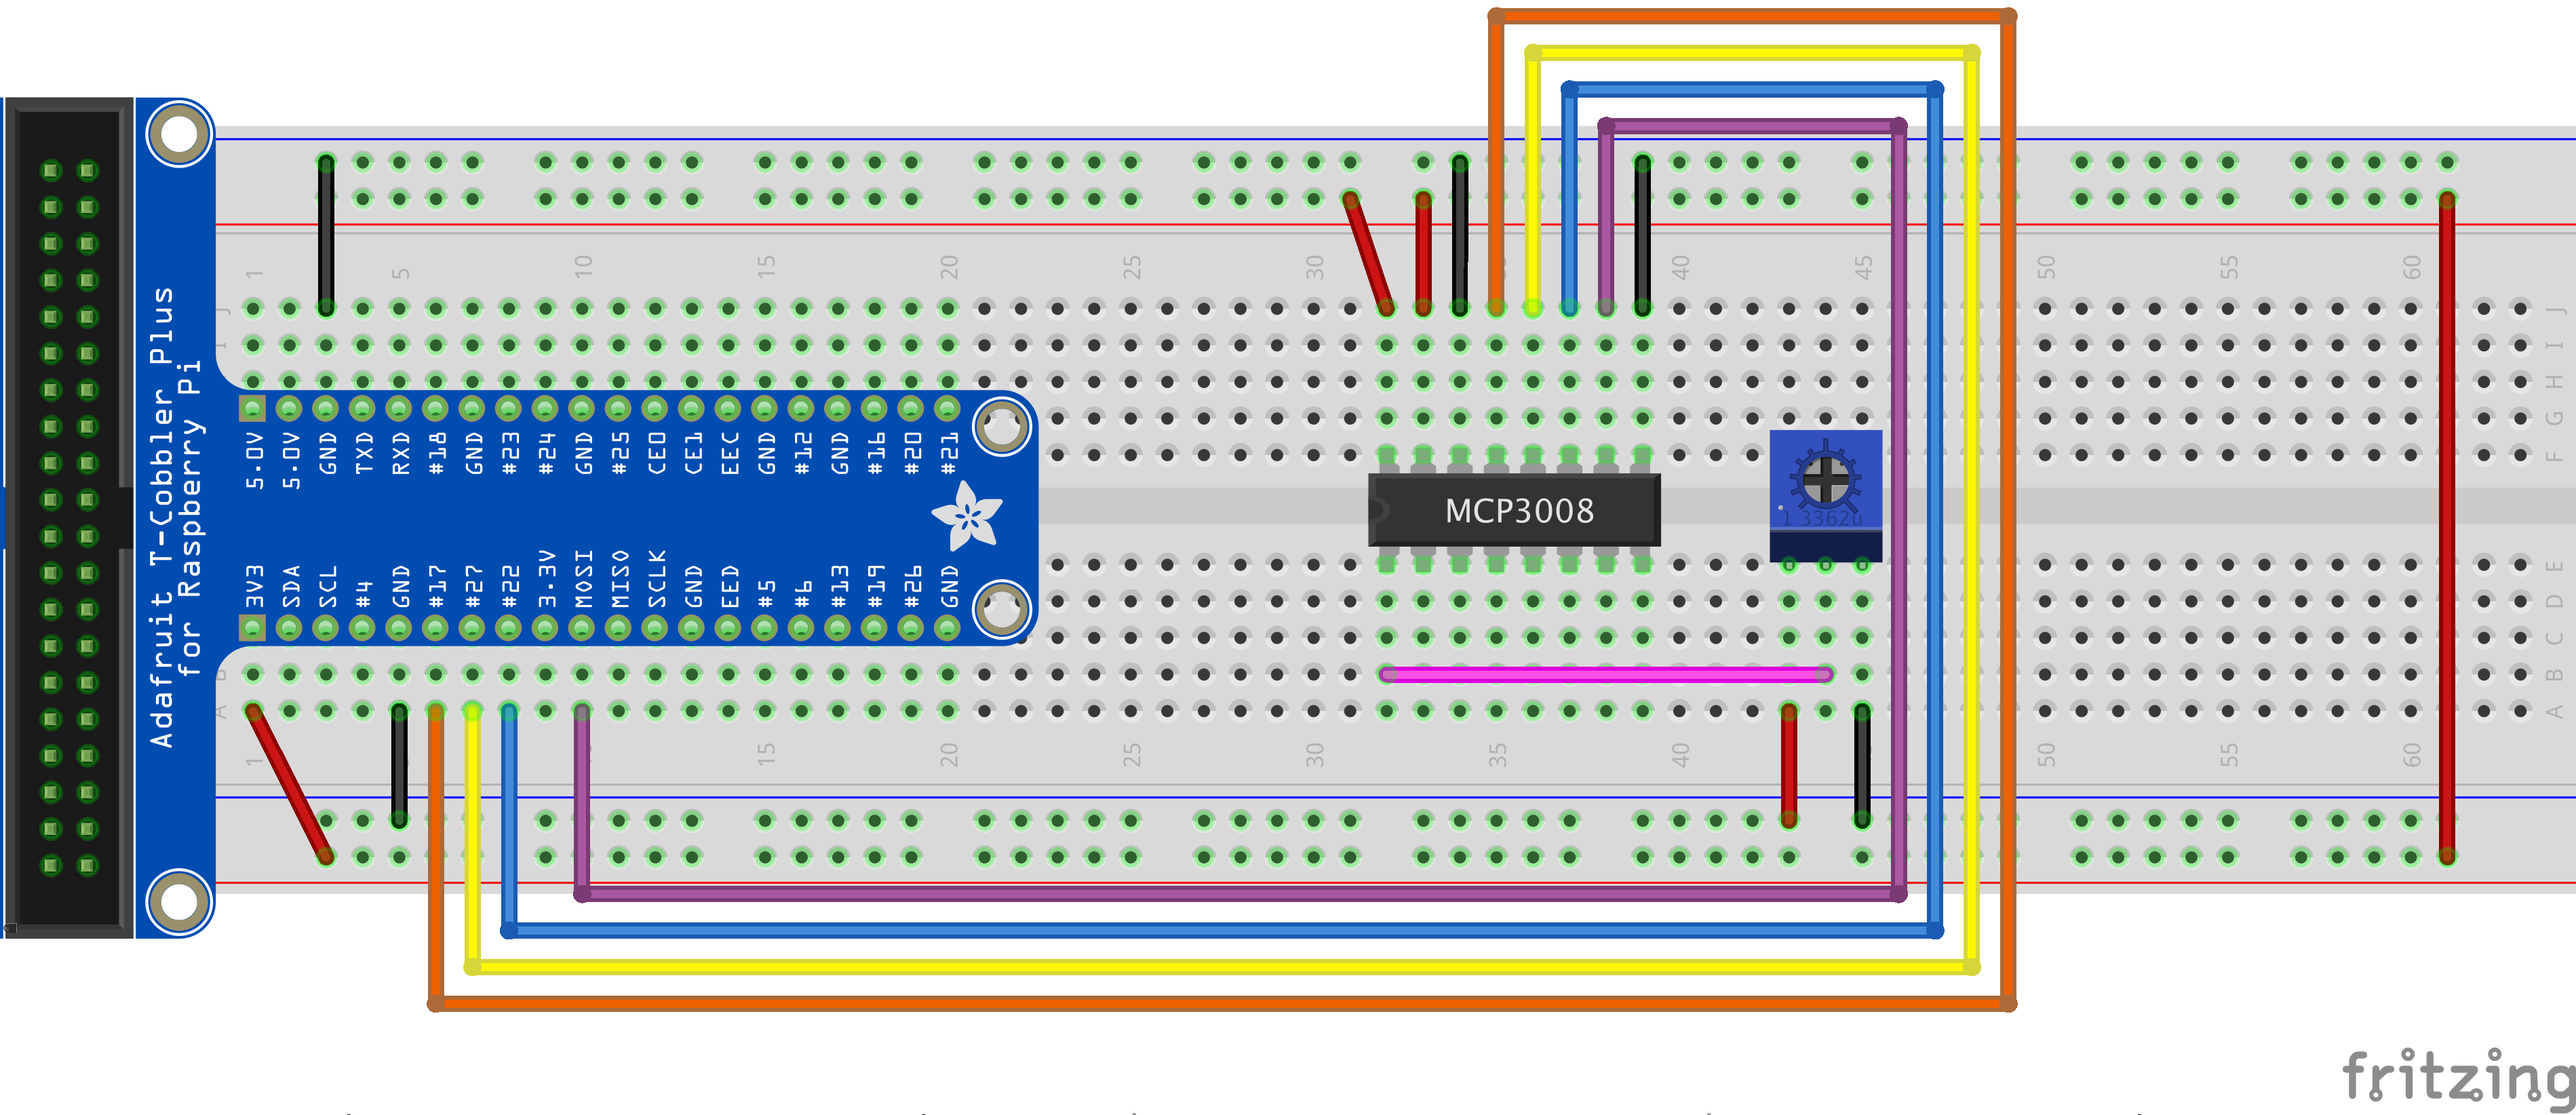
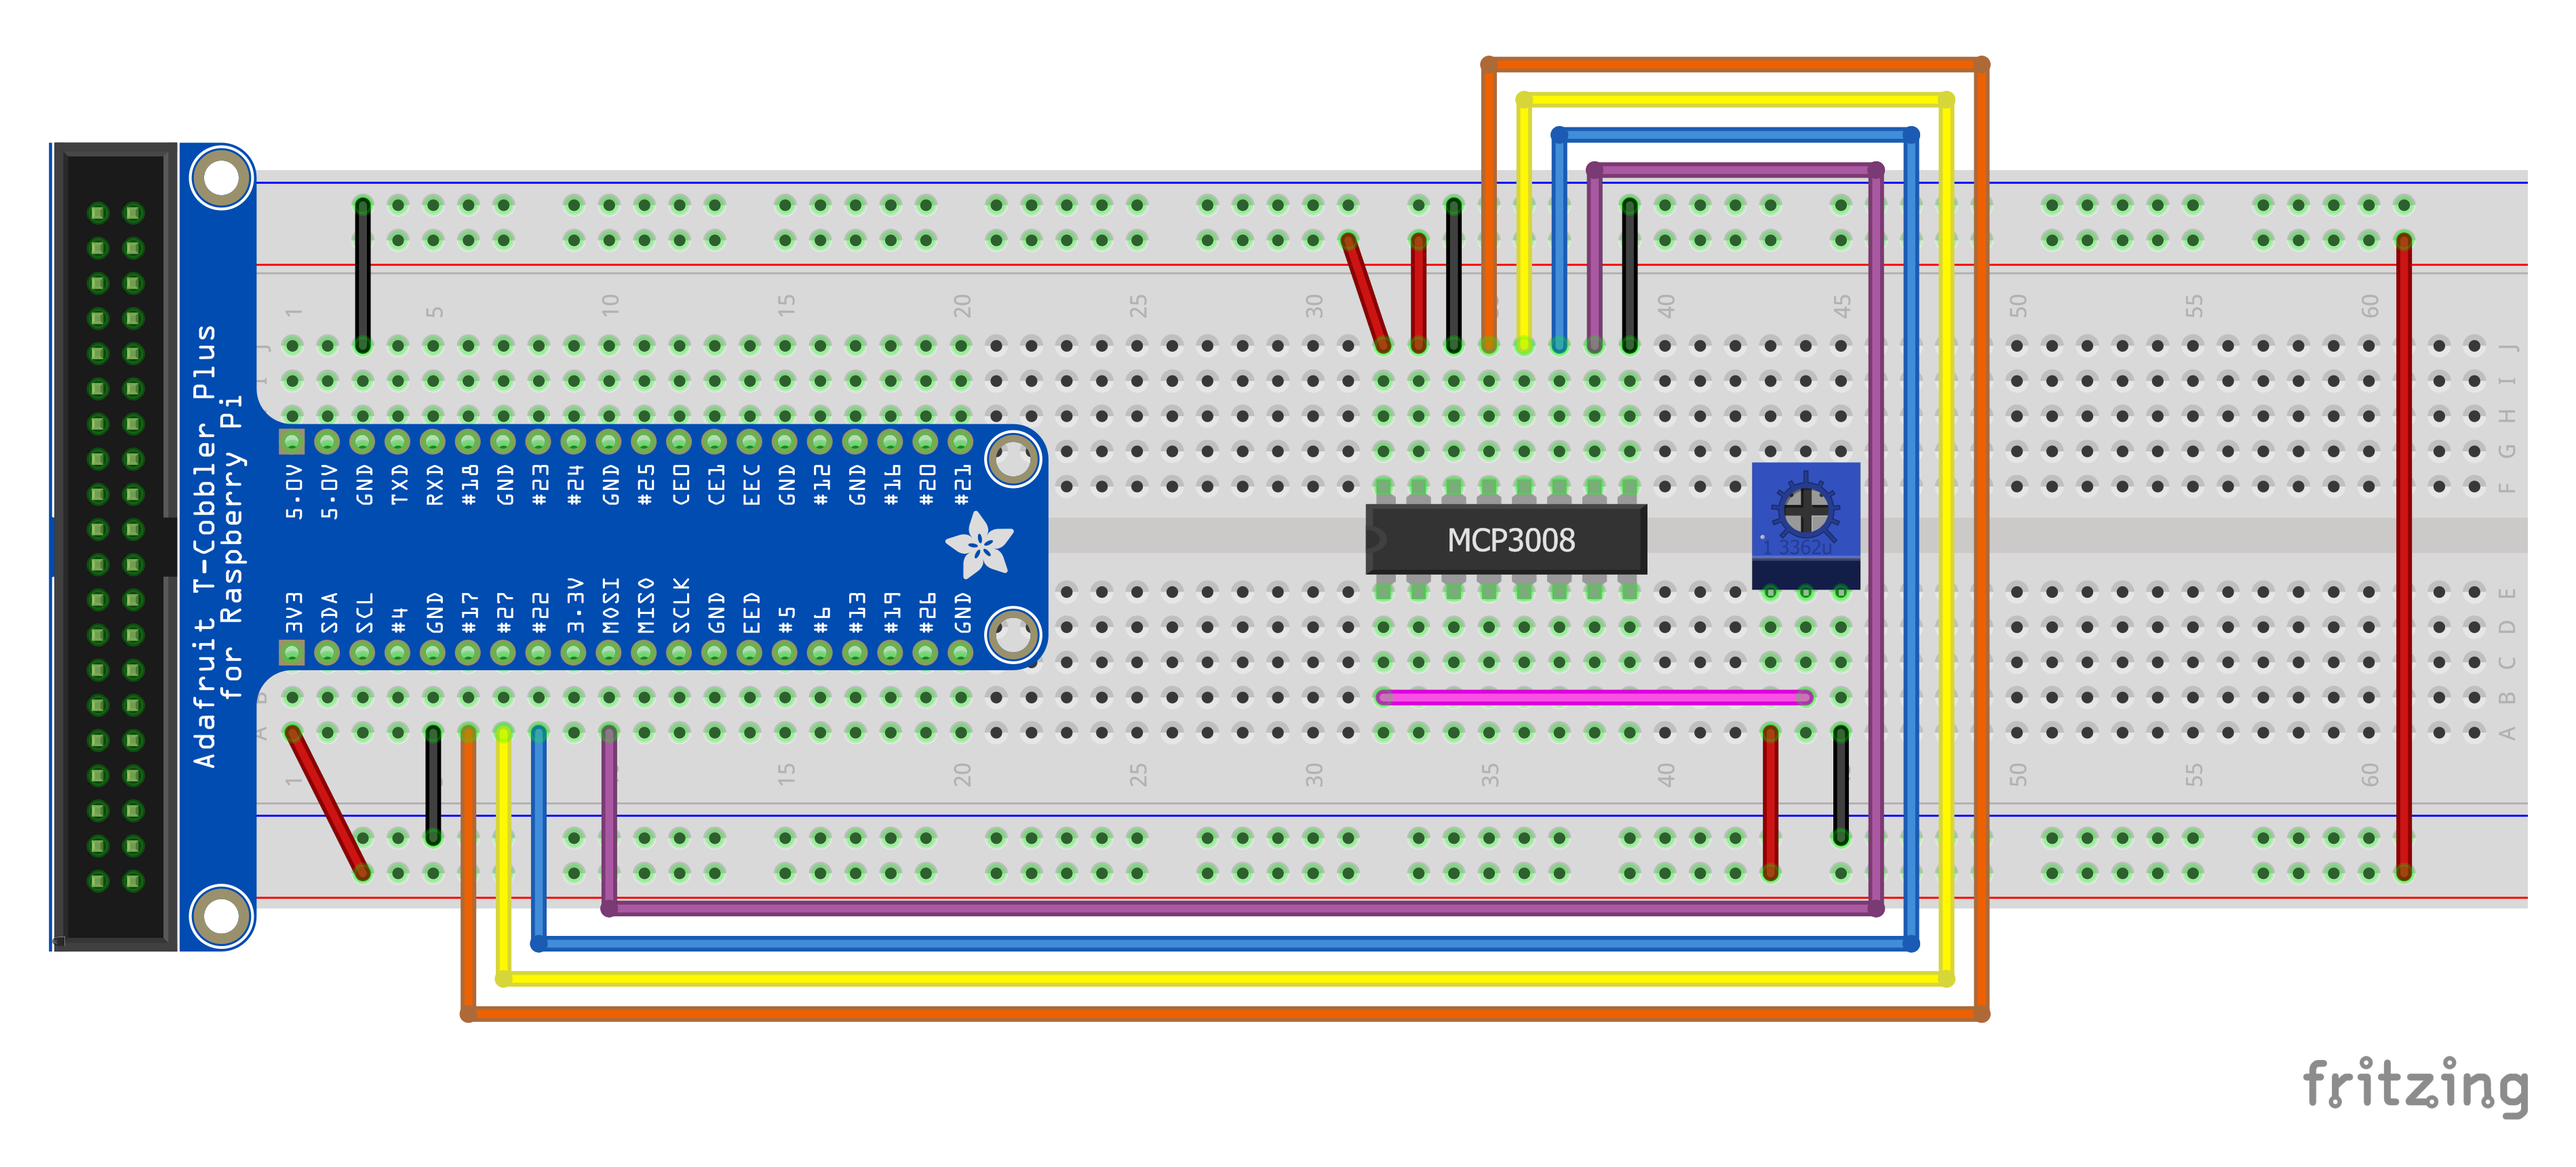
Updated the Retina images

diff --git a/site/content/lab/circuit1/index.md b/site/content/lab/circuit1/index.md
@@ -67,7 +67,7 @@ Connect a red wire to a power supply of +3.3V on the GPIO header, and plug it in
 Now, connect the inputs for both the first XOR gate and the first AND gate to the GPIO17 and GPIO22.  Connect the output from the XOR gate to GPIO23, and the output from the AND gate to GPIO24.  The completed circuit wiring is shown below.
 
 {{<figure caption="Half adder on a breadboard">}}
-{{<img src="HalfAdder.png">}}
+{{<img src="HalfAdder_rev2.png">}}
 {{</figure>}}
 
 ## Exercise

diff --git a/site/content/lab/circuit2/index.md b/site/content/lab/circuit2/index.md
@@ -50,7 +50,7 @@ OR    | AND 1 output | AND 2 output | C<sub>out</sub> (GPIO24)
 The resulting circuit should look something like the following illustration.
 
 {{<figure caption="The hardware configuration for a full adder">}}
-{{<img src="FullAdder.png">}}
+{{<img src="FullAdder_rev2.png">}}
 {{</figure>}}
 
 ## Exercise
